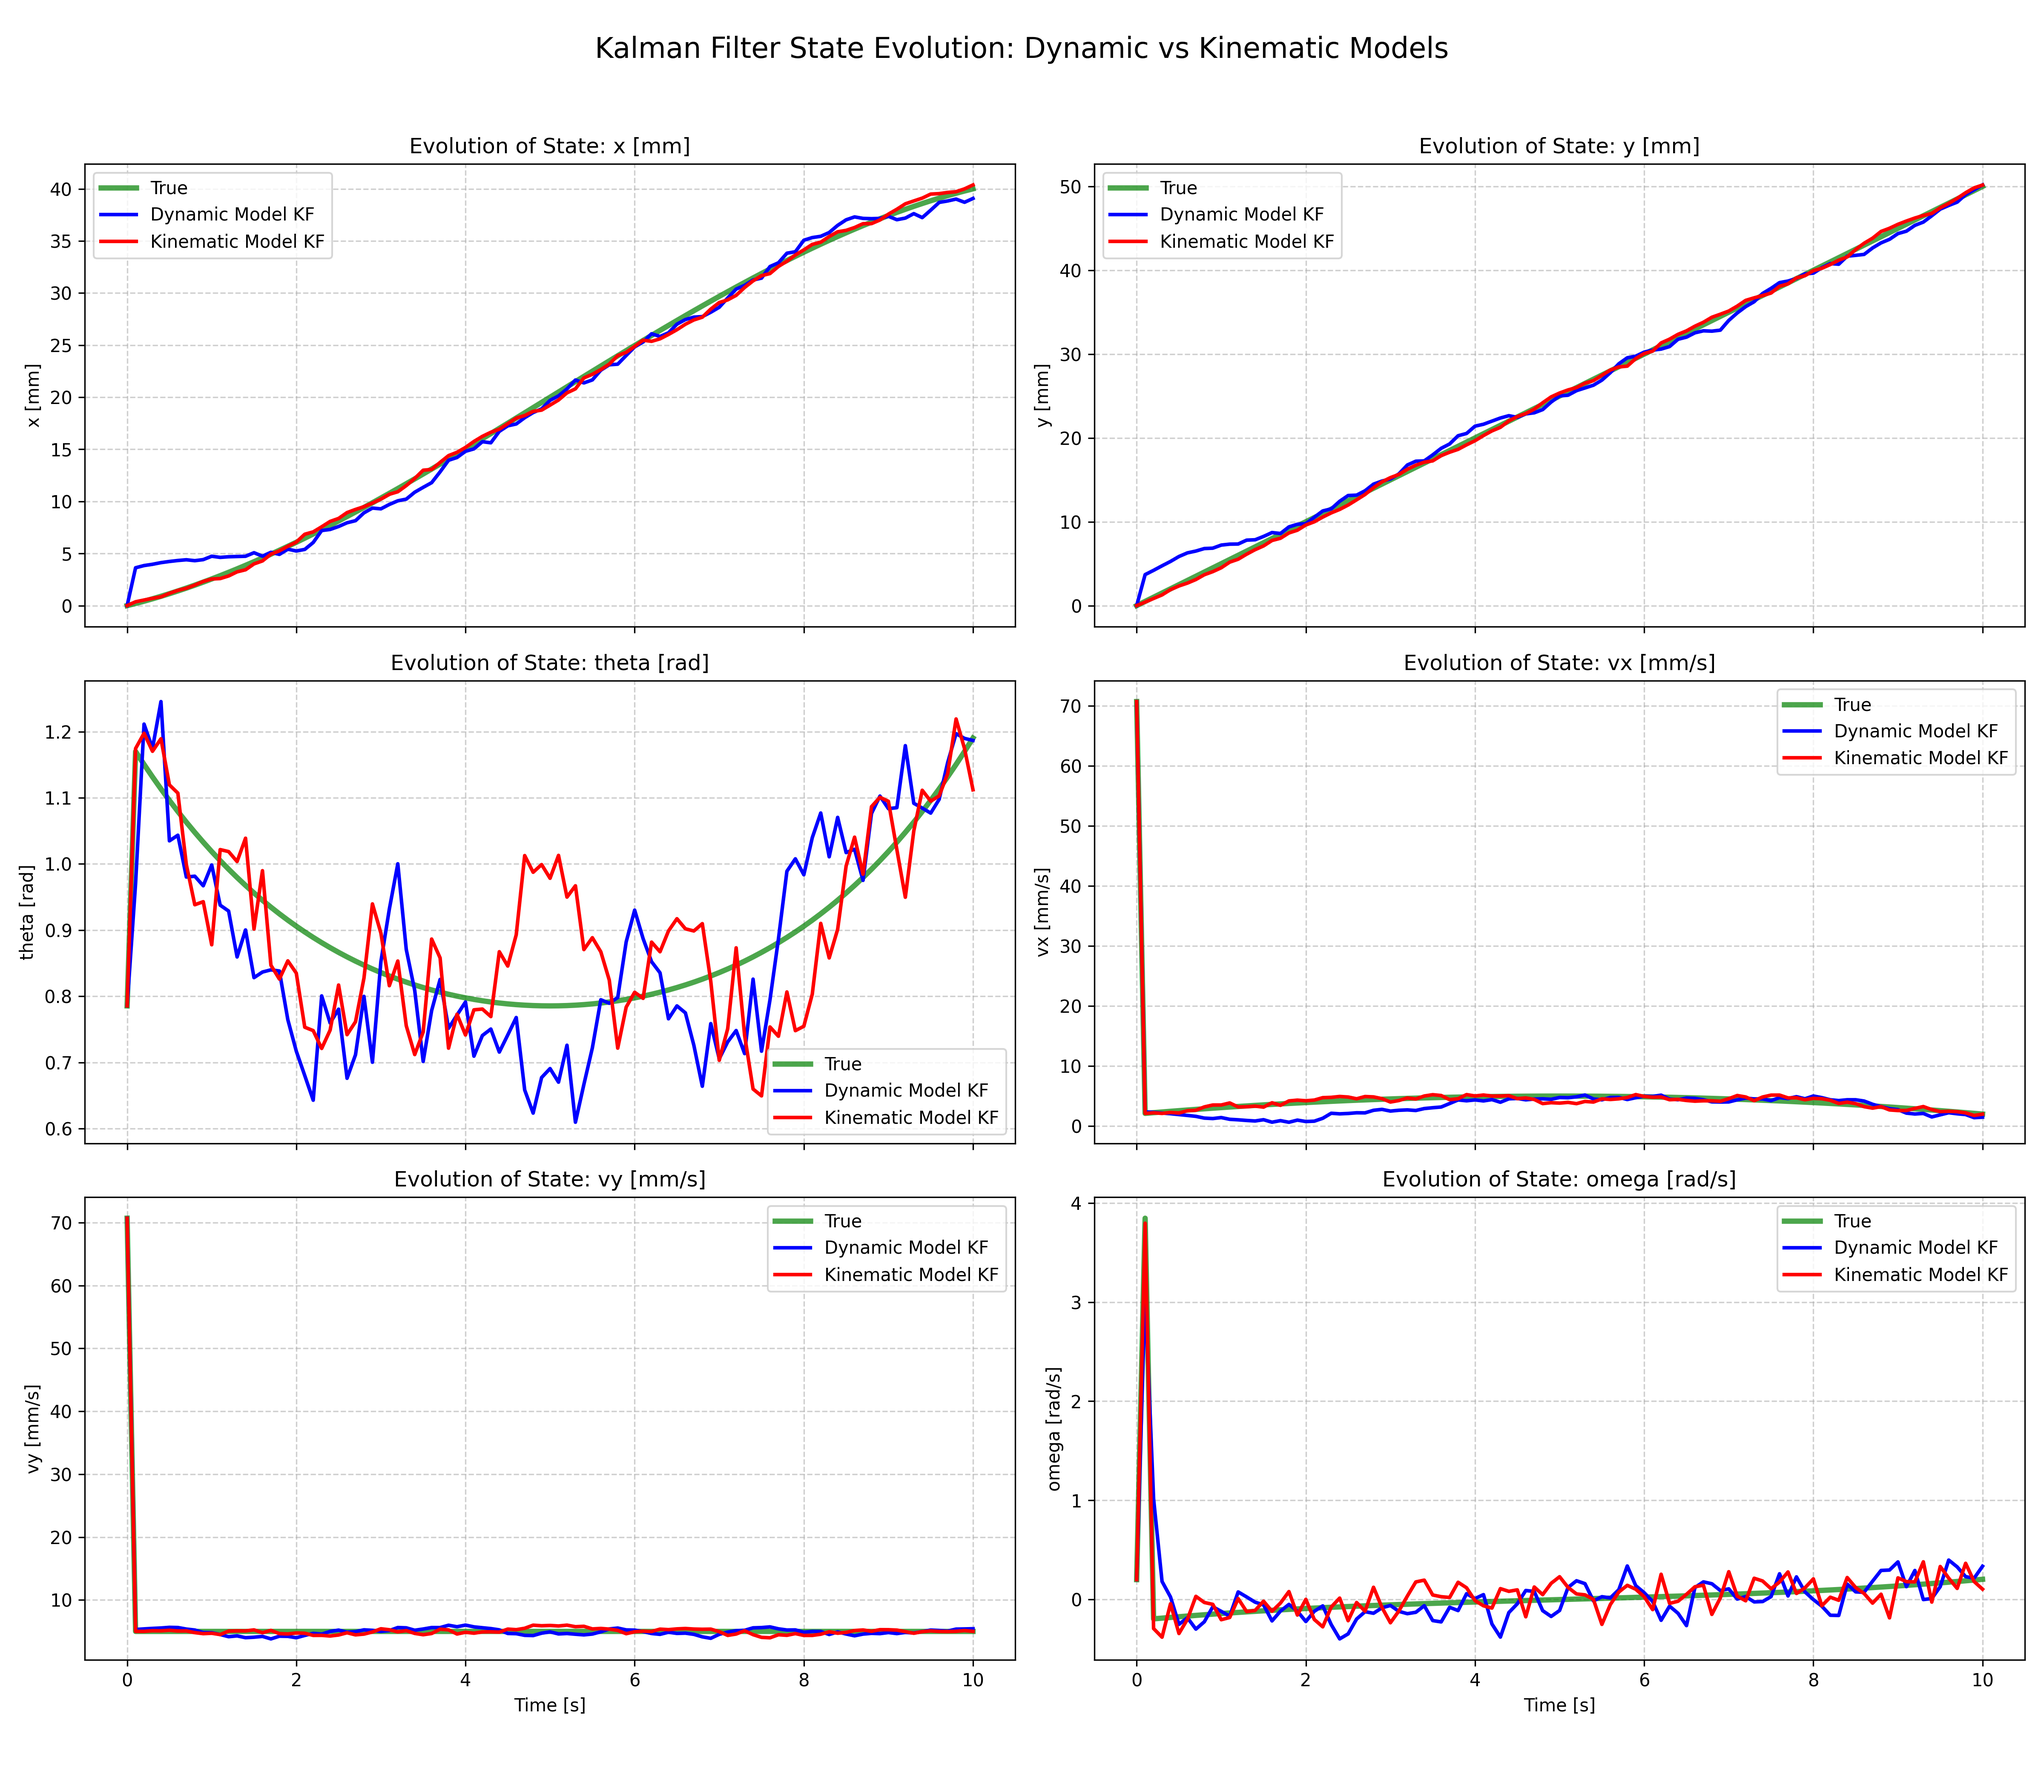
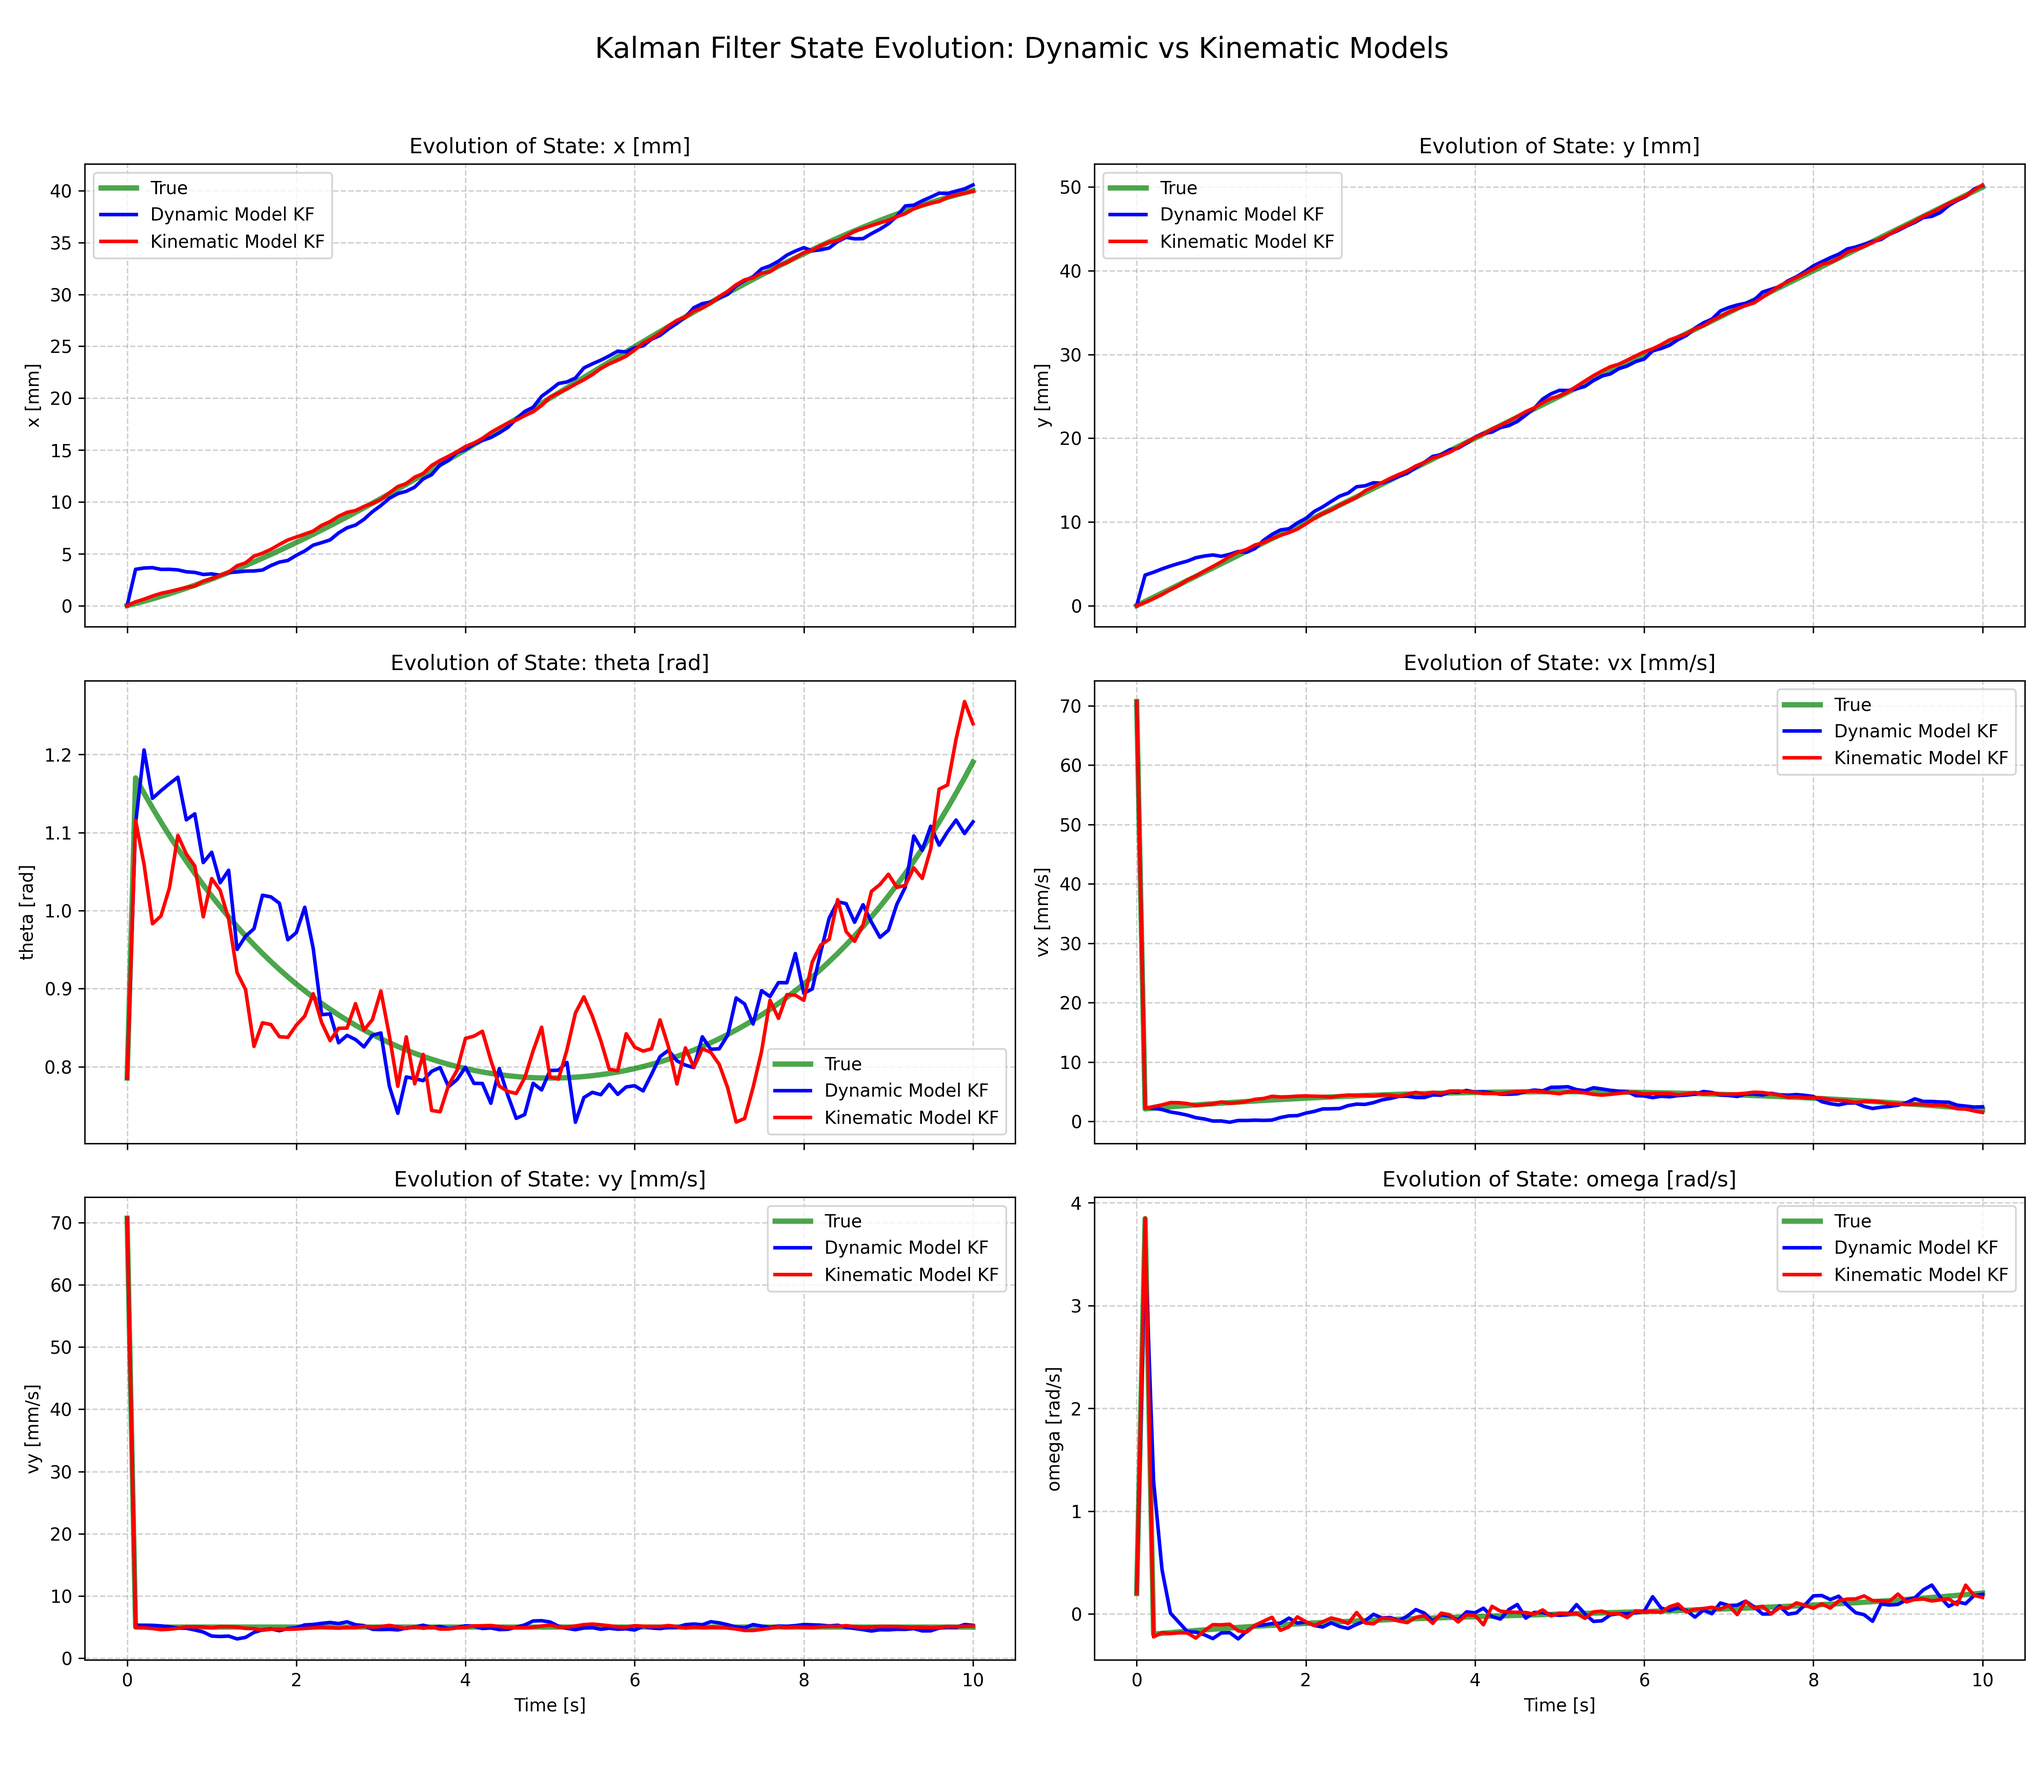
Tuned Covariances

diff --git a/diff_drive_kalman_filter.py b/diff_drive_kalman_filter.py
@@ -53,26 +53,26 @@ class KalmanFilter:
         # State vector: [x, y, theta, vx, vy, omega]
         self.state = initial_state  # Initial state of the robot
         self.P = np.eye(6)  # Initial covariance matrix
-        self.P[0, 0] = 0.1  # Position uncertainty in x [mm^2]
-        self.P[1, 1] = 0.1  # Position uncertainty in y [mm^2]
+        self.P[0, 0] = 0.05  # Position uncertainty in x [mm^2]
+        self.P[1, 1] = 0.05  # Position uncertainty in y [mm^2]
         self.P[2, 2] = 0.01  # Orientation uncertainty [rad^2]
         self.P[3, 3] = 0.1  # Velocity uncertainty in x [mm^2/s^2]
         self.P[4, 4] = 0.1  # Velocity uncertainty in y [mm^2/s^2]
-        self.P[5, 5] = 0.1  # Angular velocity uncertainty [rad^2/s^2]
+        self.P[5, 5] = 0.0825  # Angular velocity uncertainty [rad^2/s^2]
         self.Q = np.eye(6)  # Process noise covariance
-        self.Q[0, 0] = 0.01    # X position noise
-        self.Q[1, 1] = 0.01    # Y position noise
-        self.Q[2, 2] = 0.005   # Orientation noise
-        self.Q[3, 3] = 0.1     # Velocity noise in x
-        self.Q[4, 4] = 0.1     # Velocity noise in y
-        self.Q[5, 5] = 0.05    # Angular velocity noise
+        self.Q[0, 0] = 0.005    # X position noise [mm^2]
+        self.Q[1, 1] = 0.005    # Y position noise [mm^2]
+        self.Q[2, 2] = 0.001   # Orientation noise [rad^2]
+        self.Q[3, 3] = 0.075     # Velocity noise in x [mm^2/s^2]
+        self.Q[4, 4] = 0.075     # Velocity noise in y [mm^2/s^2]
+        self.Q[5, 5] = 0.005    # Angular velocity noise [rad^2/s^2]
         # [x, y, theta] Odometry measurement noise covariance
         self.R_odom = np.eye(3)
-        self.R_odom[0, 0] = 5.0  # Position uncertainty in x [mm^2]
-        self.R_odom[1, 1] = 5.0  # Position uncertainty in y [mm^2]
-        self.R_odom[2, 2] = 0.1  # Orientation uncertainty [rad^2]
+        self.R_odom[0, 0] = 1.0  # Position uncertainty in x [mm^2]
+        self.R_odom[1, 1] = 1.0  # Position uncertainty in y [mm^2]
+        self.R_odom[2, 2] = 0.05  # Orientation uncertainty [rad^2]
         # [omega] IMU measurement noise covariance
-        self.R_imu = np.array([[0.05]])  # Yaw rate noise [rad^2/s^2]
+        self.R_imu = np.array([[0.0075]])  # Yaw rate noise [rad^2/s^2]
         self.last_timestamp = initial_timestamp  # [seconds]
 
     def normalize_angle(self, angle: float) -> float:

diff --git a/README.md b/README.md
@@ -1,7 +1,7 @@
 # Perseverance
 Mobile Robot resembling NASA's Mars Perseverance Rover. Everything from scratch
 
-# Kalman Filtering for rover state estimation
+# Kalman Filtering for Rover State Estimation
 Approximating the robot as a diff-drive robot makes it easier to compute the state transition matrix and derive the system dynamics/kinematics.
 
 <div style="display: flex; justify-content: space-between; align-items: flex-start; gap: 8px;">
